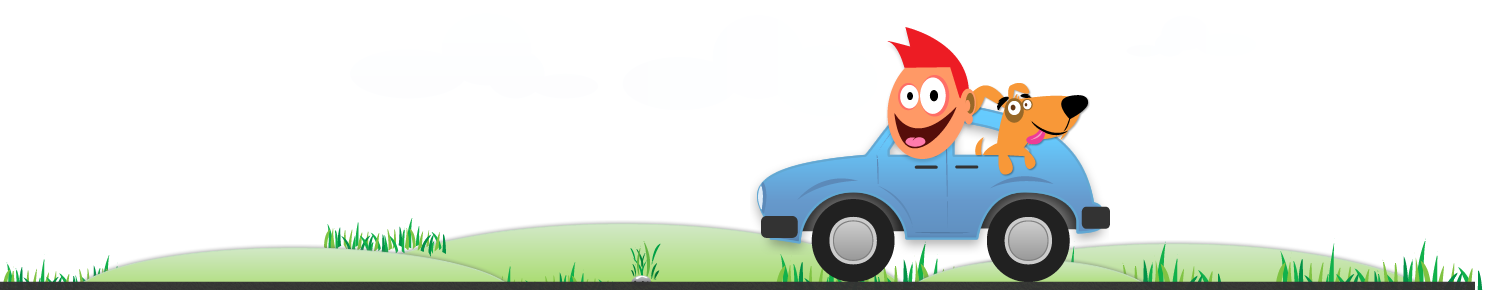
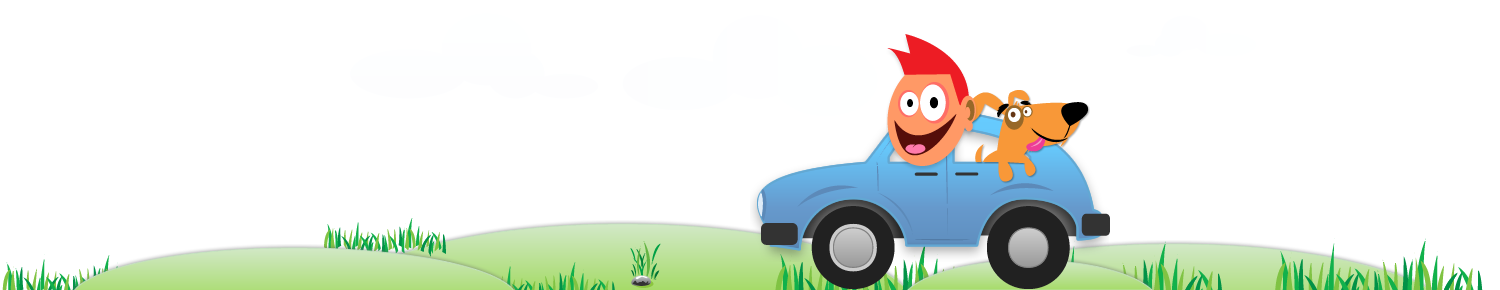
fix top background

Changed region(s): [[0.0, 0.0931, 1.0, 1.0]]

diff --git a/app/assets/stylesheets/custom.css.scss b/app/assets/stylesheets/custom.css.scss
@@ -44,8 +44,26 @@ $paginationActiveBackground: 		#f5f5f5;
 @import "bootstrap";
 @import "bootstrap-responsive";
 
+
+
 /* universal 
 ------------------------------------------------------------------------------*/
+@mixin gradient($from, $to) {
+  /* fallback/image non-cover color */
+  background-color: $from;
+
+  /* Firefox 3.6+ */
+  background-image: -moz-linear-gradient($from, $to);
+
+  /* Safari 4+, Chrome 1+ */
+  background-image: -webkit-gradient(linear, 0% 0%, 0% 100%, from($from), to($to));
+
+  /* Safari 5.1+, Chrome 10+ */
+  background-image: -webkit-linear-gradient($from, $to);
+
+  /* Opera 11.10+ */
+  background-image: -o-linear-gradient($from, $to);
+}
 
 
 /*Generic frame and liner components*/
@@ -236,7 +254,8 @@ nav#controlls{
     padding:20px 20px 20px 20px;
   }
   a:hover{
-    background-image: linear-gradient(#A1EFEE, #05CCCC);
+    @include gradient(#A1EFEE, #05CCCC);
+    /*background-image: linear-gradient(#A1EFEE, #05CCCC);*/
     color:#fff;
     text-shadow:none;
     box-shadow: 0 0 3px #27C1C9 inset;
@@ -316,6 +335,7 @@ li.usrimg{
 }
 .sky {
     background-image: -moz-linear-gradient(#FDC306, #55EF98 100%);
+    background-image: -webkit-linear-gradient(#FDC306, #55EF98 100%);
 }
 
 /* Modal 

diff --git a/spec/factories/ride.rb b/spec/factories/ride.rb
@@ -1,0 +1,28 @@
+FactoryGirl.define do
+  # post factory with a `belongs_to` association for the user
+  factory :ride do |ride|
+    ride.origin "Asheville, NC"
+    ride.destination "Boston, MA"
+    ride.date "2013-03-01"
+    ride.price "45"
+    ride.seats "3"
+    user
+  end
+
+  # user_with_posts will create post data after the user has been created
+  factory :user_with_rides do
+    # posts_count is declared as an ignored attribute and available in
+    # attributes on the factory, as well as the callback via the evaluator
+    ignore do
+      rides_count 5
+    end
+
+    # the after(:create) yields two values; the user instance itself and the
+    # evaluator, which stores all values from the factory, including ignored
+    # attributes; `create_list`'s second argument is the number of records
+    # to create and we make sure the user is associated properly to the post
+    after(:create) do |user, evaluator|
+      FactoryGirl.create_list(:ride, evaluator.rides_count, user: user)
+    end
+  end
+end

diff --git a/features/step_definitions/request_ride_steps.rb b/features/step_definitions/request_ride_steps.rb
@@ -1,0 +1,36 @@
+Given /^a ride exists$/ do
+  @ride = FactoryGirl.create(:user).rides
+end
+
+When /^I sign in as "(.*?)" user$/ do |arg1|
+  visit '/users/sign_in'
+  fill_in "user[email]",    with: "random@example.com"
+  fill_in "Password", with: "foobar" 
+  click_button "Sign in"
+  save_and_open_page
+end
+
+Given /^I visit a ride page$/ do
+  visit ride_url(:ride)
+end
+
+Then /^I should be redirected to sign in page$/ do
+  page. should == new_user_session_url
+end
+
+
+When /^I press "(.*?)" button$/ do |arg1|
+  click_button "Request ride"
+end
+
+Then /^I should see the ride request form$/ do
+  pending # express the regexp above with the code you wish you had
+end
+
+When /^I submit valid ride request$/ do
+  pending # express the regexp above with the code you wish you had
+end
+
+Then /^I should see "(.*?)" message$/ do |arg1|
+  pending # express the regexp above with the code you wish you had
+end

diff --git a/app/controllers/rides_controller.rb b/app/controllers/rides_controller.rb
@@ -1,5 +1,5 @@
 class RidesController < ApplicationController
-  before_filter :authenticate_user!
+  before_filter :authenticate_user!, only: [:edit, :create, :new, :destroy, :update]
   before_filter	:correct_user,	 only: [:edit, :destroy]
   before_filter	:admin_user,	 only: [:edit, :destroy]
   
@@ -13,7 +13,6 @@ class RidesController < ApplicationController
   # GET /rides/1.json
   def show
     @ride = Ride.find(params[:id])
-    #@rides = @user.rides.create(params[:user_id])
     @user = @ride.user(params[:id])
     @json = Ride.find(params[:id]).to_gmaps4rails
   end

diff --git a/features/step_definitions/manage_user_steps.rb b/features/step_definitions/manage_user_steps.rb
@@ -57,13 +57,13 @@ end
 When /^i vist profile for admin@example\.com$/ do
   user = User.find_by_email!('admin@example.com')
   visit user_url(user)
-  
 end
 
 Then /^I should not see Edit Profile link$/ do
   user = User.find_by_email!('admin@example.com')
   page.should_not have_link('Edit Profile', href: edit_user_path(user))
 end
+
 
 
 

diff --git a/app/controllers/static_pages_controller.rb b/app/controllers/static_pages_controller.rb
@@ -2,7 +2,7 @@ class StaticPagesController < ApplicationController
   
   def home
     @rides = Ride.all(limit: 6)
-    @ride = current_user.rides.build if signed_in?
+    #@ride = current_user.rides.build if signed_in?
   end
 
   def help
